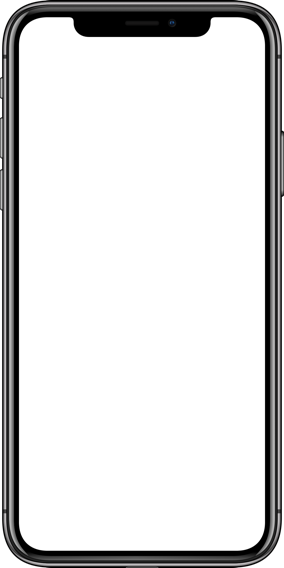
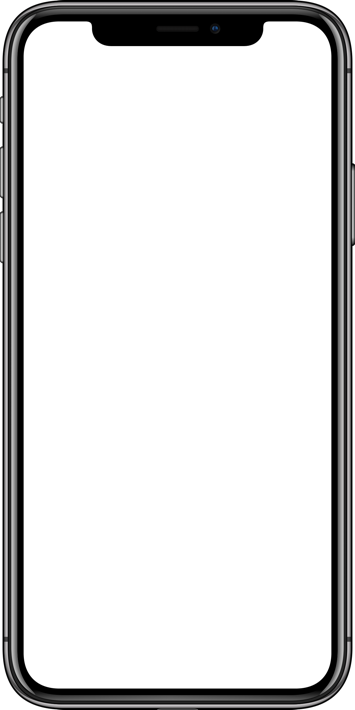
update

diff --git a/css/main.css b/css/main.css
@@ -6514,6 +6514,7 @@ section.about {
   #about .phone-slides {
     position: relative;
     width: 300px;
+    top: 15px;
     margin: 0 auto; }
     #about .phone-slides .slicks {
       width: 280px;
@@ -6523,9 +6524,9 @@ section.about {
     #about .phone-slides #phone-frame {
       position: absolute;
       width: 300px;
+      top: 0;
       left: 50%;
-      top: 50%;
-      transform: translate(-50%, -50%); }
+      transform: translate(-50%); }
 
 #showcases {
   background: #ffffff url(/imgs/overview-left.svg) no-repeat left; }

diff --git a/_scss/main.scss b/_scss/main.scss
@@ -129,6 +129,7 @@ section.about {
     .phone-slides {
         position: relative;
         width: 300px;
+        top: 15px;
         margin: 0 auto;
 
         .slicks {
@@ -142,9 +143,9 @@ section.about {
         #phone-frame {
             position: absolute;
             width: 300px;
+            top: 0;
             left: 50%;
-            top: 50%;
-            transform: translate(-50%, -50%);
+            transform: translate(-50%);
         }
     }
 }
